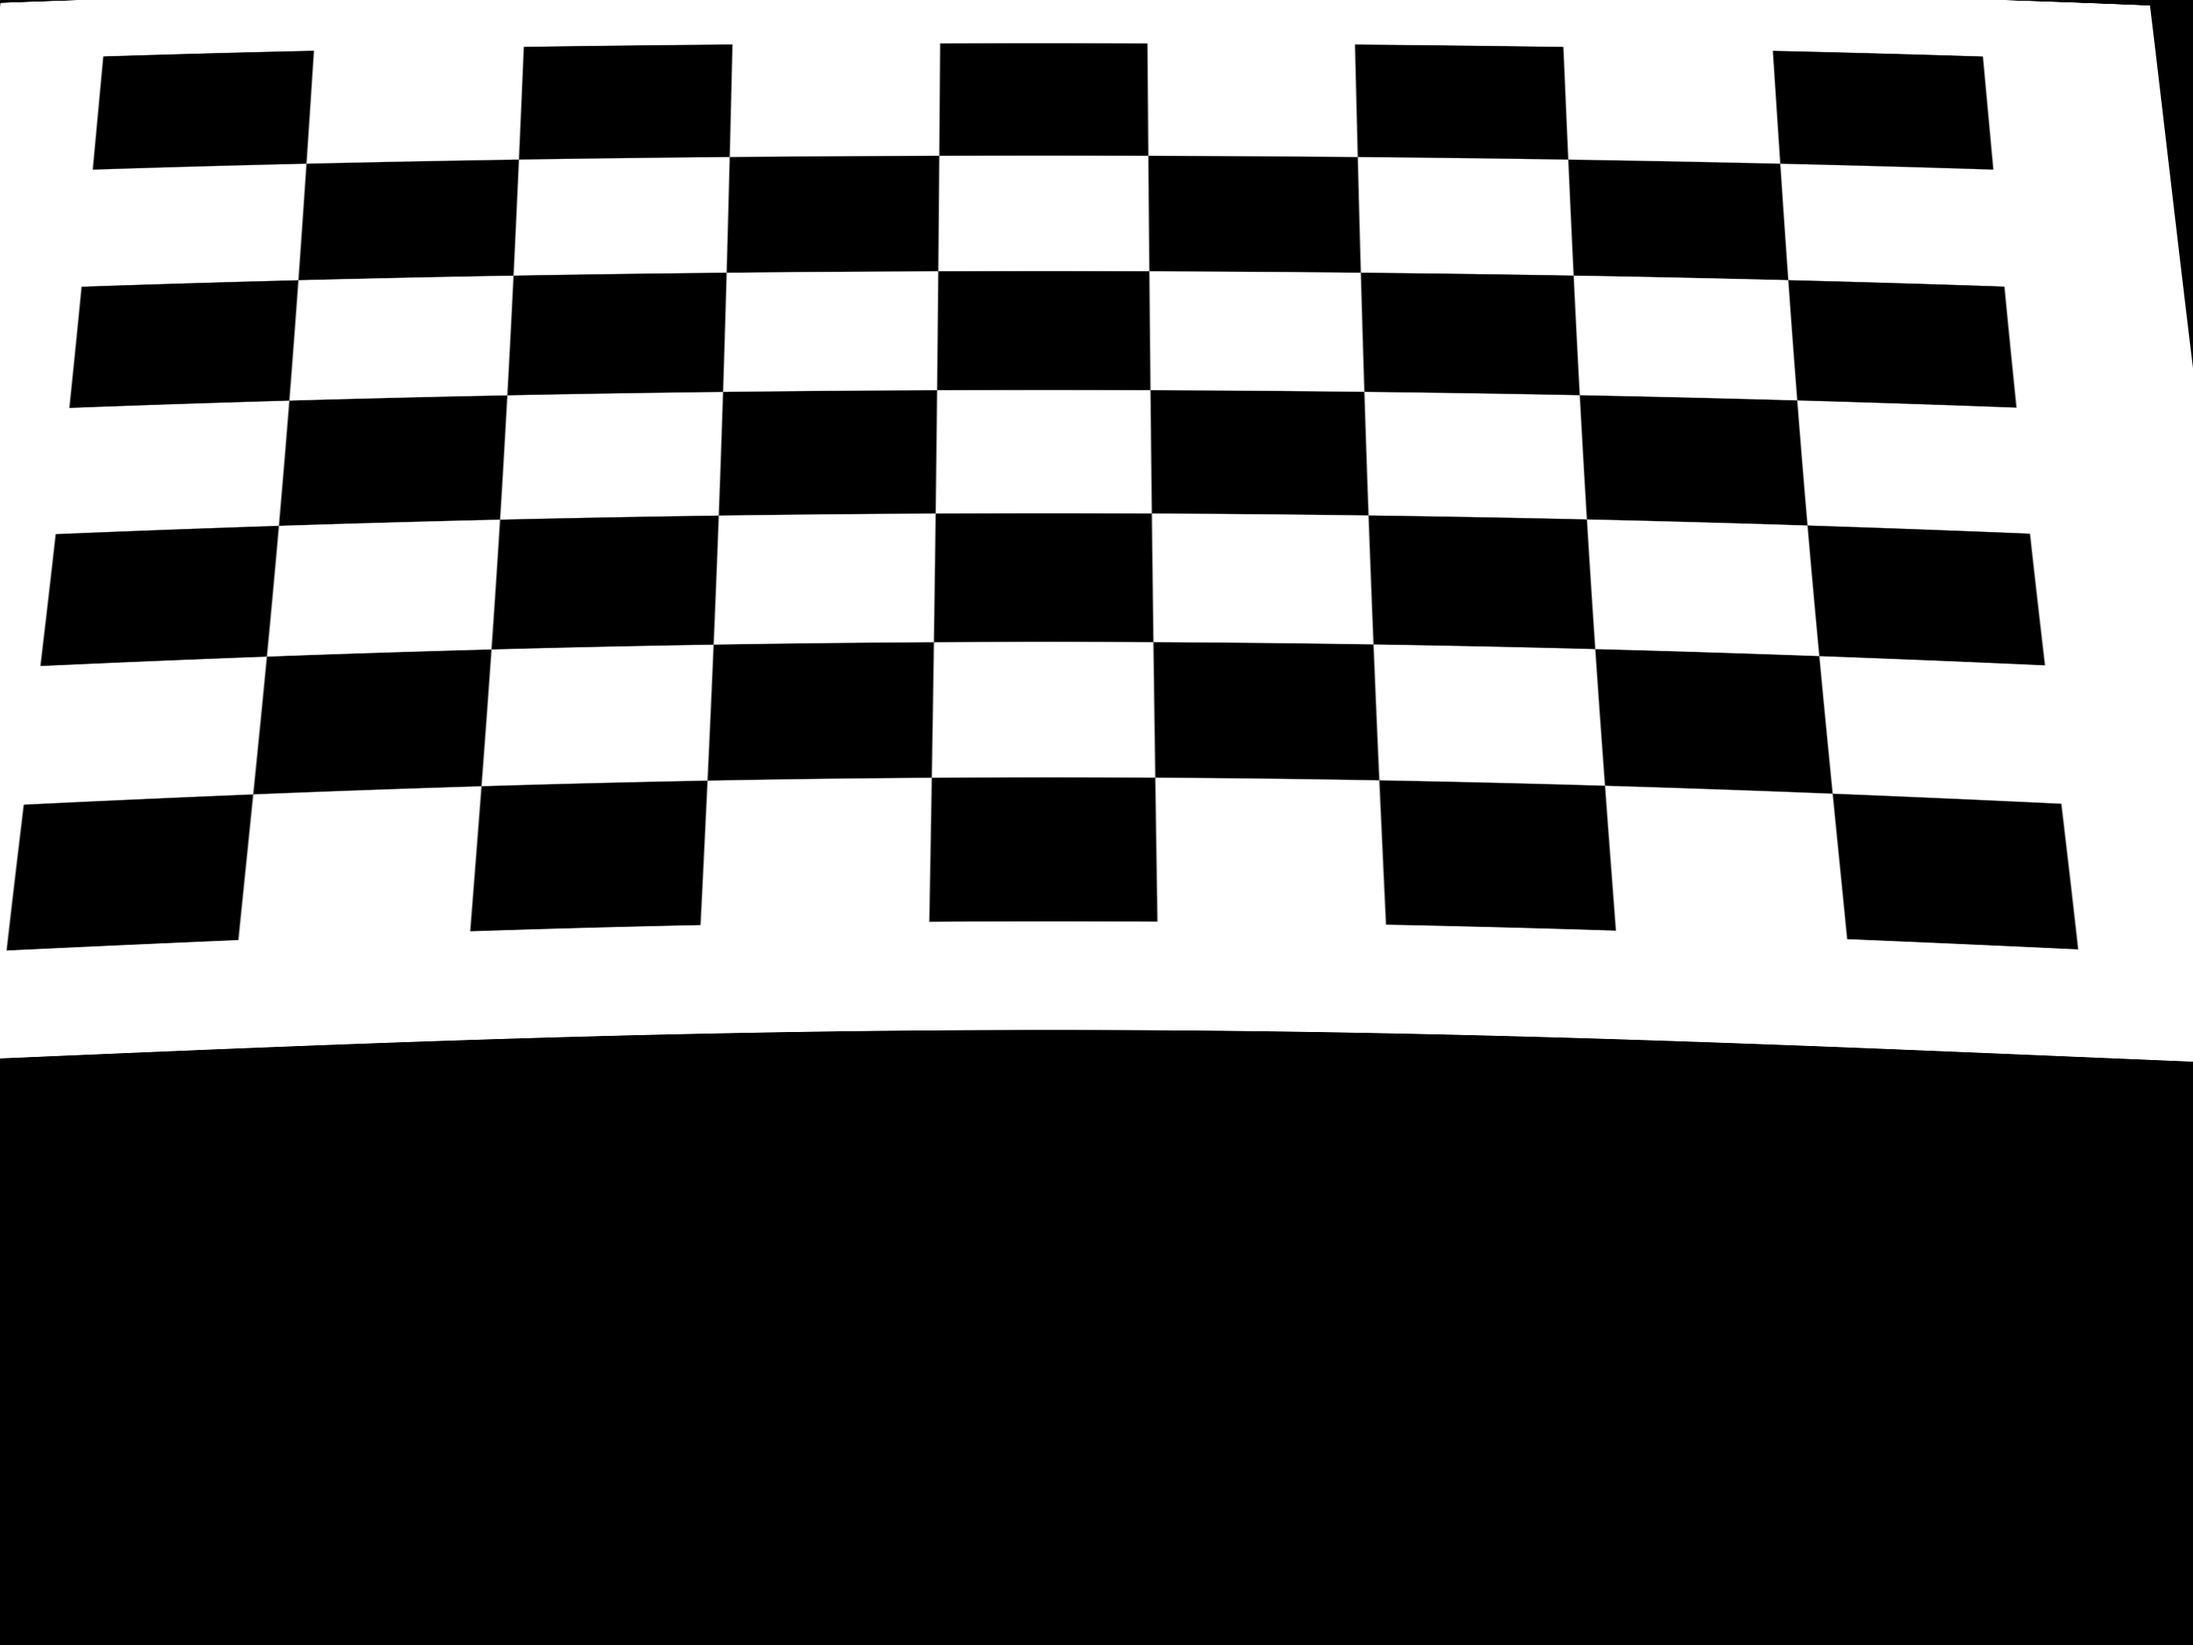
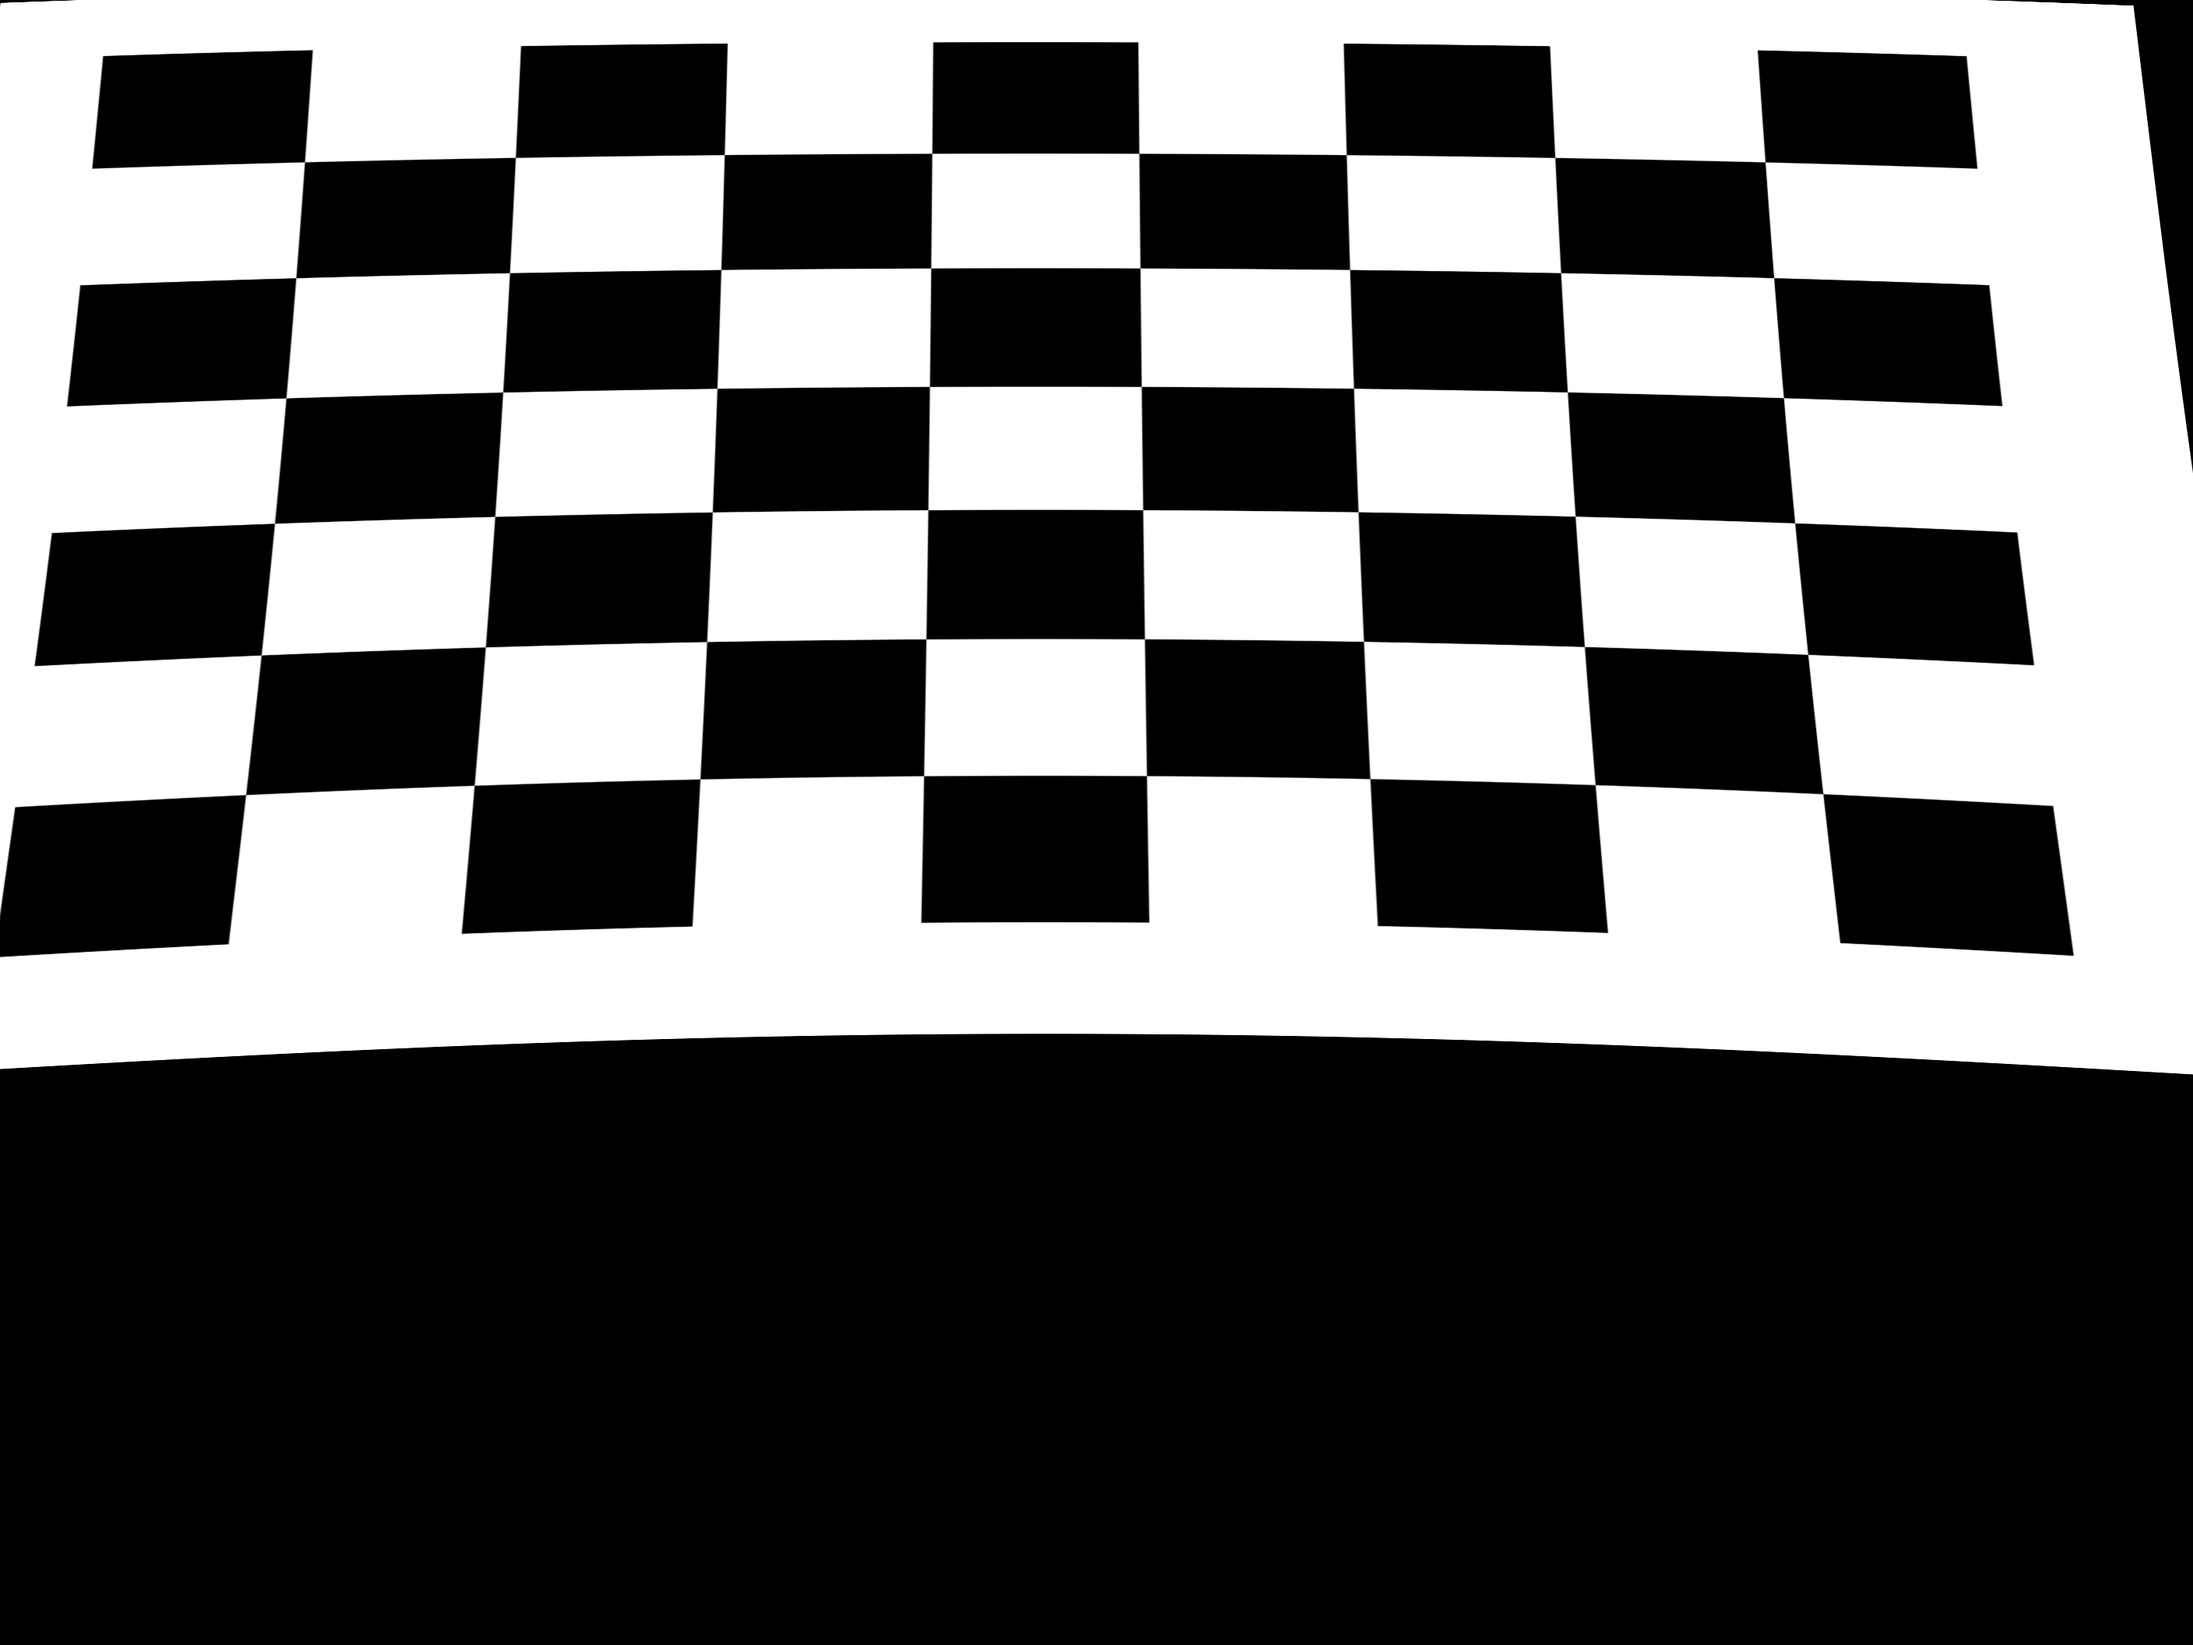
cleanup assess uncertainty

diff --git a/final_project/python/calibrate_camera.py b/final_project/python/calibrate_camera.py
@@ -111,6 +111,36 @@ class CameraCalibration:
 
         return u_all, X_all, image_size
 
+
+    def assess_uncertainty(self, N):
+
+        image = join(self.output_folder, "checkerboard.png")
+        camera_matrix = np.array(((2359.40946, 0, 1370.05852), (0, 2359.61091, 1059.63818), (0, 0, 1)))
+        size = (100, 10) # width, height
+
+        print(f"Generating {N} images with sampled distortion... ", end="")
+        for i in range(N):
+            
+            # Parameters found from other script
+            k1 = np.random.normal(-0.06652, 0.00109)
+            k2 = np.random.normal(0.06534, 0.00624)
+            k3 = np.random.normal(-0.07555, 0.01126)
+            p1 = np.random.normal(0.00065, 0.00011)
+            p2 = np.random.normal(-0.00419, 0.00014)
+
+            distortion_coefficients = np.array((k1, k2, k3, p1, p2))
+            new_camera_matrix, _ = cv.getOptimalNewCameraMatrix(
+                camera_matrix, distortion_coefficients, size, 1, size
+            )
+
+            I = cv.imread(image, cv.IMREAD_GRAYSCALE)
+            IU = np.empty_like(I)
+
+            _ = cv.undistort(src=I, dst=IU, cameraMatrix=camera_matrix, distCoeffs=distortion_coefficients, newCameraMatrix=new_camera_matrix)
+
+            cv.imwrite(f"../data/distortion_sample/sample{i:03d}.png", IU) 
+        print("Done!")
+
     def run(self):
 
         if exists(join(self.output_folder, "u_all.npy")):
@@ -136,4 +166,8 @@ class CameraCalibration:
 
 
 if __name__ == "__main__":
-    CameraCalibration().run()
+    calibrator = CameraCalibration()
+
+    calibrator.run()
+
+    calibrator.assess_uncertainty(10)
